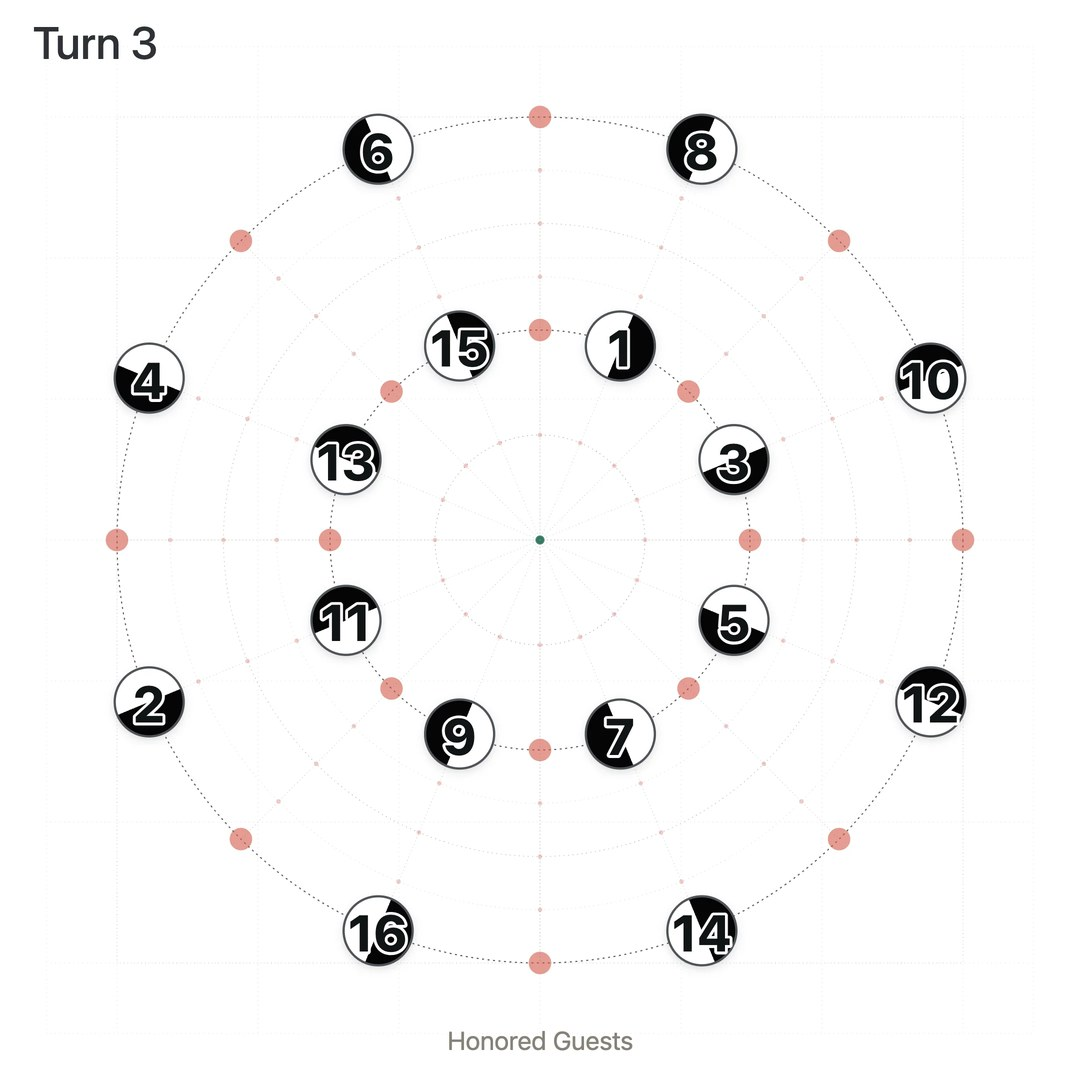
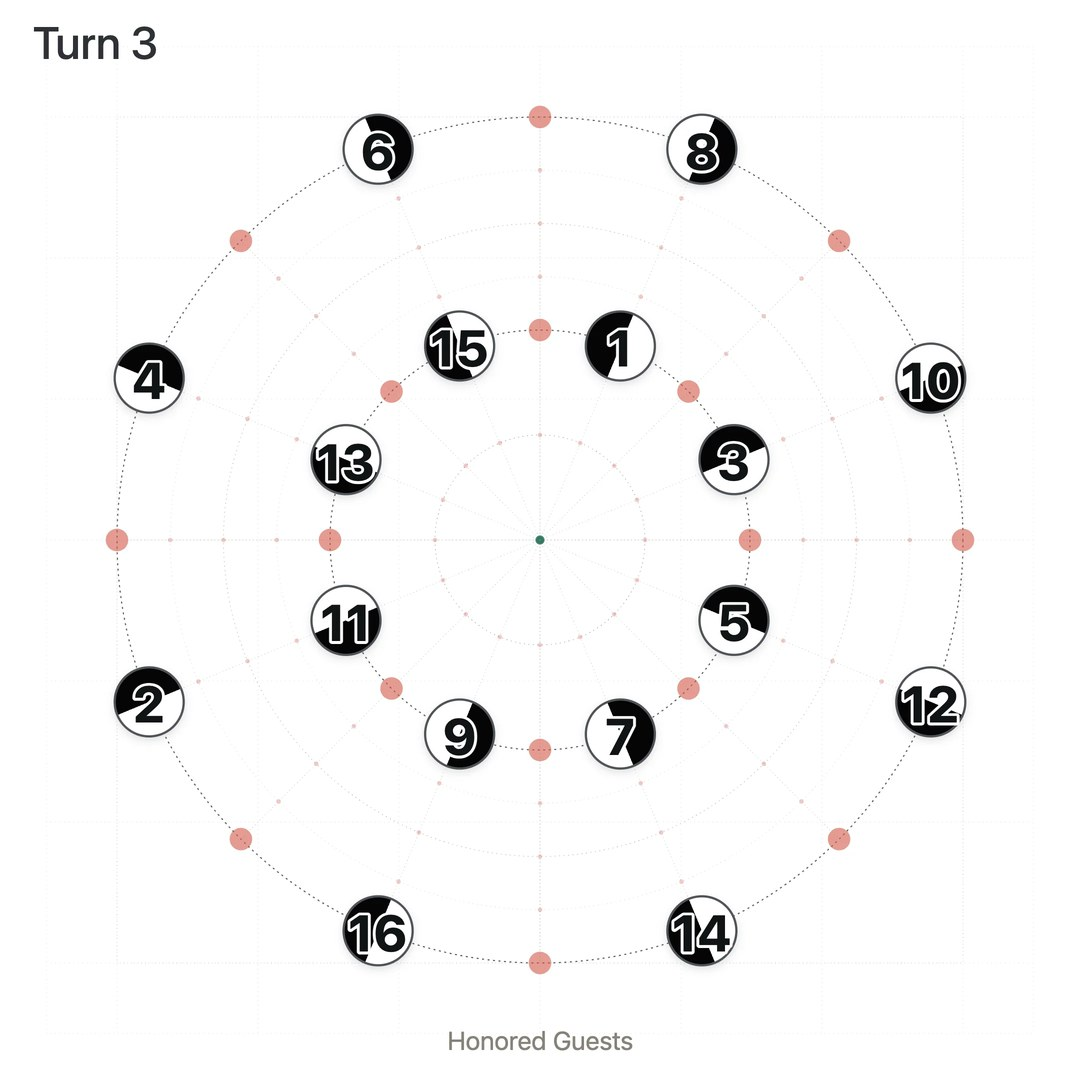
Flip L/F on Turning Gears from Turn 3 on
Turn 3, 4 and 5 (frames 4-6) keep their spots but every couple faces the
other way, so lead and follow halves trade places. Player frames and the
deck JPEGs are redrawn to match.

diff --git a/index.html b/index.html
@@ -3811,12 +3811,15 @@
         };
       };
       const turn = (times) => start.items.map((item) => turned(item, item.number % 2 === 1 ? 4 * times : -2 * times));
+      // L and F swap sides: every couple's facing turns around, so its lead and follow halves trade places.
+      const FLIPPED = { in: "out", out: "in", cw: "ccw", ccw: "cw", north: "south", south: "north", east: "west", west: "east" };
+      const flip = (item) => ({ ...item, facingMode: FLIPPED[item.facingMode] || item.facingMode });
       // Three turns forward, then the gears turn back: Turn 4 is where Turn 2 was, Turn 5 where Turn 1
-      // was (Ariel's frames 5 and 6 repeat frames 3 and 2).
+      // was (Ariel's frames 5 and 6 repeat frames 3 and 2). From Turn 3 (frame 4) on, L and F are flipped.
       return [
         { ...start, annotation: { title, subtitle: "Start" } },
         ...[1, 2, 3, 2, 1].map((times, index) => {
-          const items = turn(times);
+          const items = index >= 2 ? turn(times).map(flip) : turn(times);
           return { count: items.length, annotation: { title, subtitle: `Turn ${index + 1}` }, items };
         }),
       ];
